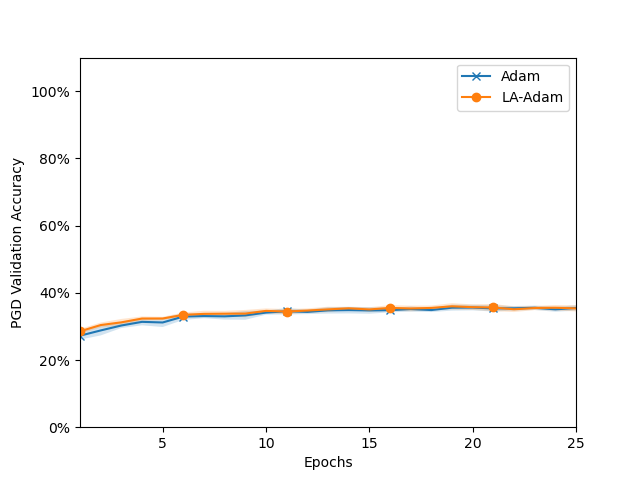
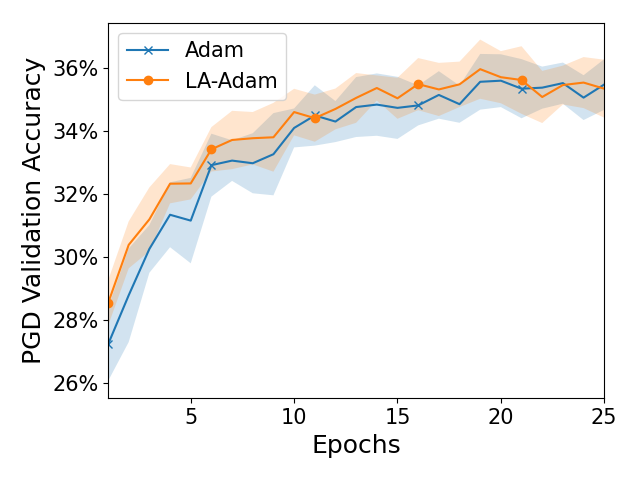
reformat plot for resnet34

diff --git a/results/result_eval.py b/results/result_eval.py
@@ -1,8 +1,8 @@
 import pandas as pd
 import matplotlib.pyplot as plt
 import numpy as np
-import os
-import matplotlib.ticker as mtick
+from matplotlib.ticker import FuncFormatter
+import matplotlib
 from pathlib import Path
 markers=('o', 'x', '^', '<', '>', '*', 'h', 'H', 'D', 'd', 'P', 'X', '8', 's', 'p')
 
@@ -37,11 +37,16 @@ def plot_avg_valid_results():
         tsplot(ax, df, marker='x',markevery=5)
         tsplot(ax, df_LA, marker='o', markevery=5)
 
-        ax.set_xlabel('Epochs')
-        ax.set_ylabel('{} Validation Accuracy'.format(attack.upper()) if attack is not None else "Validation Accuracy")
-        ax.set_ylim(0, 1.1)
-        ax.yaxis.set_major_formatter(mtick.PercentFormatter(1.0))
-        plt.legend([optim, "LA-{}".format(optim)])
+        ax.set_xlabel('Epochs', fontsize=18)
+        ax.set_ylabel('{} Validation Accuracy'.format(attack.upper()) if attack is not None else "Validation Accuracy",
+                      fontsize=18)
+        #ax.set_ylim(0, 1.1)
+        ax.yaxis.set_major_formatter(FuncFormatter(lambda y, _: '{:.0%}'.format(y)))
+        font = {'size': 15}
+        matplotlib.rc('font', **font)
+        matplotlib.pyplot.tight_layout()
+
+        plt.legend([optim, "LA-{}".format(optim)], prop={'size': 15})
         plt.savefig("Analysis/{}/{}.png".format(dataset, optim))
         plt.show()
 
